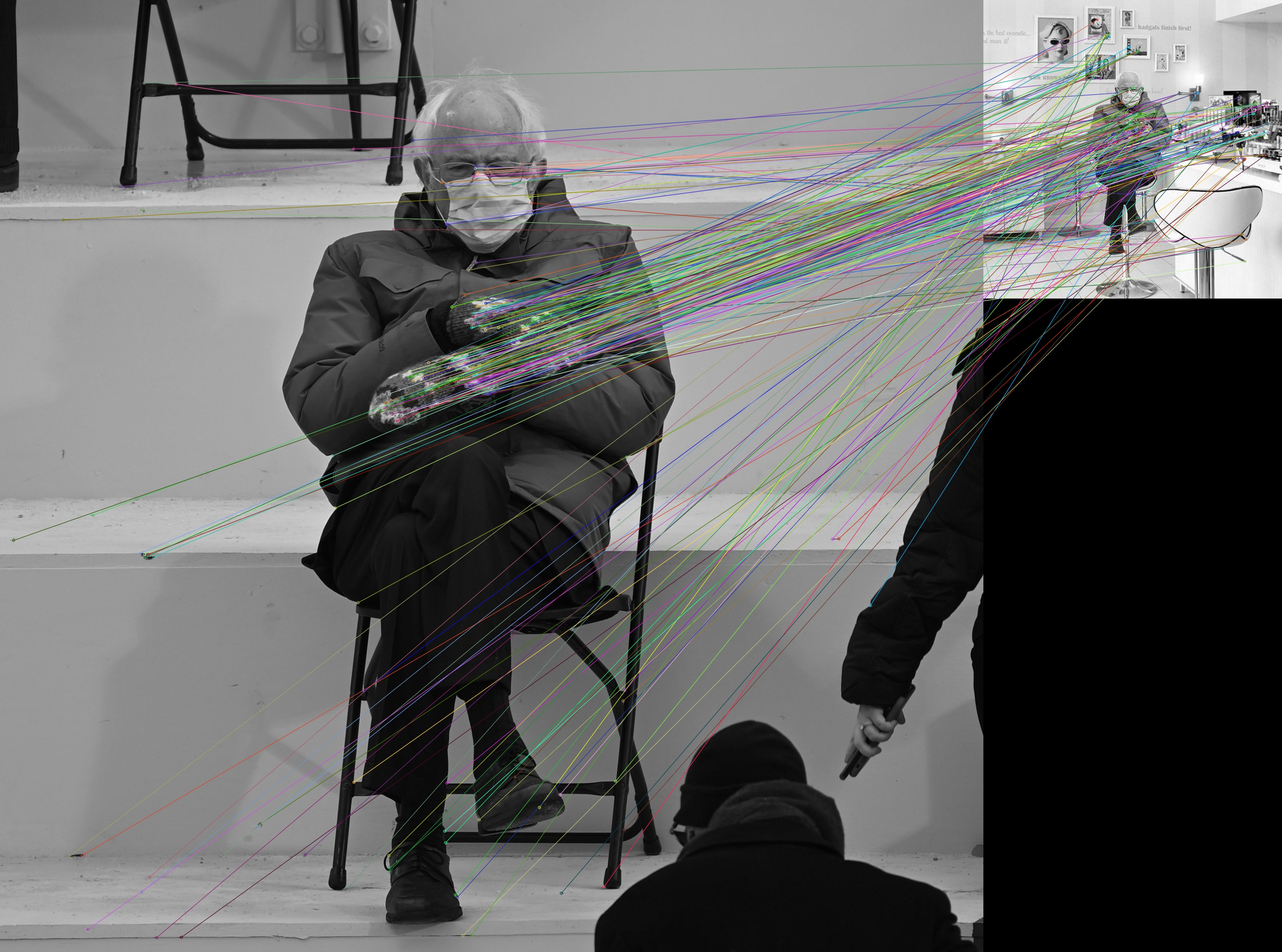
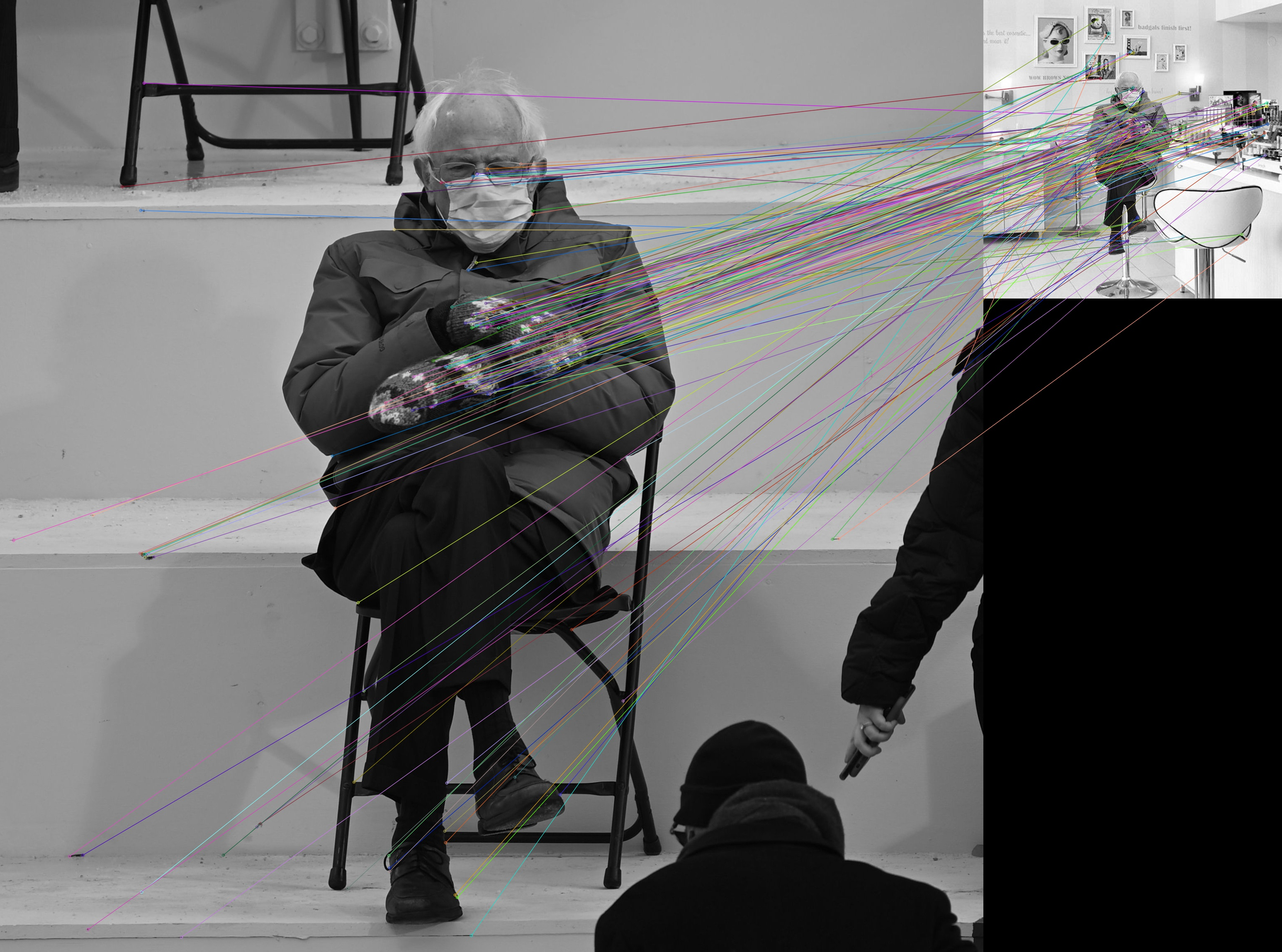
minor

diff --git a/bernie.py b/bernie.py
@@ -104,7 +104,7 @@ def ConvertToKeyPoints(arr):
 def ProcessImage(path):
     '''Return the Feature Descriptors and KPs'''
     points, orien = HarrisPointDetector(path)
-    points = ThresholdPoints(points, 0.025)
+    points = ThresholdPoints(points, 0.04)
     bernie = ReadImage(path)
     des, points = FeatureDescription(bernie, points)
     return points, des
@@ -165,7 +165,7 @@ for im in ims:
     kps_temp, des_temp = ProcessImage("Bernies/" + im)
 
     # Now get the Matches
-    matches = best_match(kps, kps_temp, des, des_temp, 0.8)
+    matches = best_match(kps, kps_temp, des, des_temp, 0.7)
 
     mi = draw_lines("Bernies/bernieSanders.jpg", "Bernies/" + im, kps, kps_temp, matches)
 
